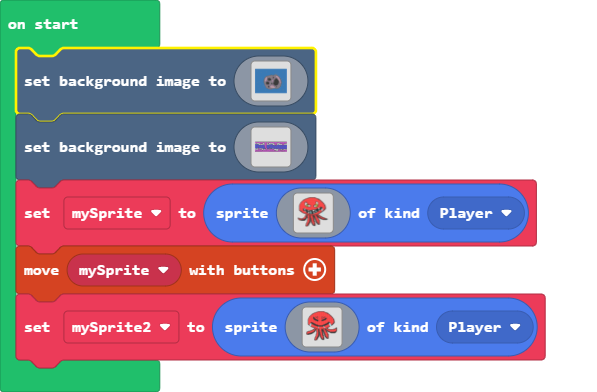
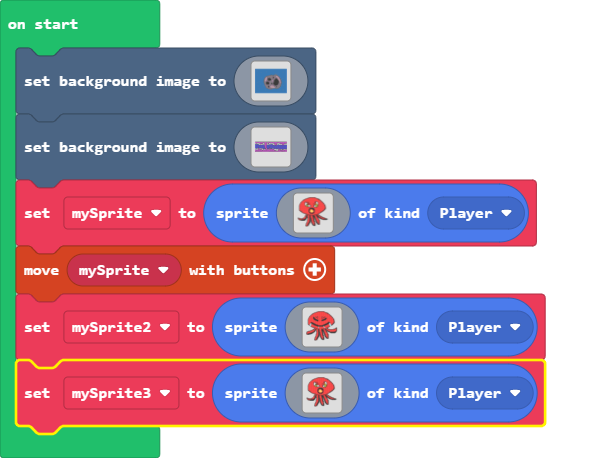
Update main.blocks, main.ts, images.g.jres, images.g.ts

diff --git a/images.g.ts b/images.g.ts
@@ -35,43 +35,43 @@ namespace myImages {
 ...............f22222222222222222222222222222222222222222ff.....................
 .............ff22222222222222222222222222222222222222222222f....................
 ............f2222222222222222222222222222222222222222222222f....................
-...........f22222222222222222222222222222222222fff2222222222ff..................
-..........f2222222222fff22222222222222222222222f11f22222222222f.................
-.........f2222222222ff1ff2222222222222222222222f111f2222222222ff................
-........ff222222222ff11f22222222222222222222222f1111f22222222222f...............
-........f2222222222f1111f2222222222222222222222f1111f222222222222f..............
-.......f22222222222f11111f22222222222222222222f5f111f222222222222ff.............
-.......f22222222222f1111ffff222222222222222222f55f11f2222222222222f.............
+...........f222222222222222222222222222222222f2fff2222222222ff..................
+..........f2222222222fff222f22222222222222222f2f11f22222222222f.................
+.........f2222222222ff1ff22f2222222222222222f22f111f2222222222ff................
+........ff222222222ff11f222ff222222222222222f22f1111f22222222222f...............
+........f2222222222f1111f222ff22222222222222f22f1111f222222222222f..............
+.......f22222222222f11111f222fff22222222222f22f5f111f222222222222ff.............
+.......f22222222222f1111ffff222222222222fff222f55f11f2222222222222f.............
 ......f222222222222f111ff5ff22222222222222222ff555f1f22222222222222f............
 ......f222222222222f111f5f5ff222222222222222fff5f5f1f222222222222222f...........
 .....f2222222222222f11f5ff5f1fffff2222222f2ff1f5ff5ff222222222222222ff..........
 .....f22222222222222f1f5f55f11111ff222222fff11f55f5ff2222222222222222f..........
 .....f222222222222222ff555ff11111f22222222f111f5555f22222222222222222f..........
 .....f2222222222222222ff55f111111f22222222f111ff55ff22222222222222222f..........
-.....f222222222222222222ffffffffff22222222f1111f5ff22222222f2222222222f.........
-.....f222222222222222222222222222222222222ffffffff222222222fff22222222f.........
-.....f22222222222222222222222222222222222222222222222222fffffff2222222f.........
-.....f22222222222222222222222222222222222222222222222211fffffff2222222f.........
-.....f2222222222ffff2222222222222222222222222222222ff111ffffff99222222f.........
-.....f222222222ff11f12222222222222222222222222222fffff11ffffff9922222ff.........
-.....f222222222fff111f222222222222222222222222ffffffff1ffffff9992222ff..........
-.....f222222222fff11ffff22222222222222222fffffffffffffffffff2999222ff...........
-.....f222222222fffffffffffff222222222fffff1ff99ffffffff11ff22999222f............
-.....ff22222222ffffffffffff1fffffffffff1111fff9fffffff111f2222992ff.............
-......ff22222222fff11ffffff111fff9fffff1111fff9fffffffff22222299ff..............
-........fff2222222f111ffffff11fff9ffffff111fff9fffffff222222229ff...............
-........ffff2222222ff1fffffffffff99fffffffffff999ffff22222222ff.................
-...........f222222222ffffffffffff99ffffffffffff999f22222222fff..................
-...........ff2222222222fffff11fff99fffffff1fffffff22222222ff....................
-.............ff222222222fff1111fff99fffff111ffff222222222f......9...............
-...............fff2222222ffff11fff99fffff111f2222222222ff......99...............
-..................ffff222222ffffff99ffffffff222222222ff........99...............
-......................fff22222fffffffffff2222222222ff...........................
+.....f222222222222222222ffffffffff22222222f1111f5ff2222222222222222222f.........
+.....f222222222222222222222222222222222222ffffffff22222222222222222222f.........
+.....f2222222222222222222222222222222222222222222222222222222222222222f.........
+.....f222222222222222222222222222fffffff222222222222222222222222222222f.........
+.....f2222222222222222222222222fffffffffff2222222222222222222222222222f.........
+.....f222222222222222222222222fffffffffffff22222222222222222222222222ff.........
+.....f222222222222222222222222ffff2222fffff2222222222222222222222222ff..........
+.....f22222222222222222222222fff2244222fffff22222222222222222222222ff...........
+.....f22222222222222222222222fff24555422ffff22222222222222222222222f............
+.....ff2222222222222222222222fff254515422fff222222222222222222222ff.............
+......ff222222222222222222222ff22515455442ff22222222222222222222ff..............
+........fff222222222222222222ff22555115542ff2222222222222222222ff...............
+........ffff22222222222222222ff25151554142ff22222222222222222ff.................
+...........f22222222222222222fff224555452fff222222222222222fff..................
+...........ff22222222222222222fff22424222ff222222222222222ff....................
+.............ff222222222222222ffff2222fffff22222222222222f......................
+...............fff2222222222222fffffffffff2222222222222ff.......................
+..................ffff22222222222fffffff2222222222222ff.........................
+......................fff22222222222222222222222222ff...........................
 ......................f22ff2222222222222222222222ff2f...........................
-.....................ff22f2fffff22222222f222fffff222ff........9.................
-....................ff22ff22222ffffffffffffff22ffff222f.......9.................
-....................f222fff2222ff222222fff222222ffff222ff........9..............
-....................f22ff.f2222fff22222ffff22222fffff222ff.......9..............
+.....................ff22f2fffff222222222222fffff222ff..........................
+....................ff22ff22222ffffffffffffff22ffff222f.........................
+....................f222fff2222ff222222fff222222ffff222ff.......................
+....................f22ff.f2222fff22222ffff22222fffff222ff......................
 ...................ff2fff.f2222fff22222ffffff2222fffff2222ff....................
 ...................f22fff.f2222fff22222ffffff22222fffff2222fff..................
 ..................2222fff.f2222fff22222ffffff22222ffffff22222fff................

diff --git a/main.ts b/main.ts
@@ -329,3 +329,4 @@ let mySprite2 = sprites.create(img`
     ................................................................................
     ................................................................................
     `, SpriteKind.Player)
+let mySprite3 = sprites.create(assets.image`ljmn`, SpriteKind.Player)
